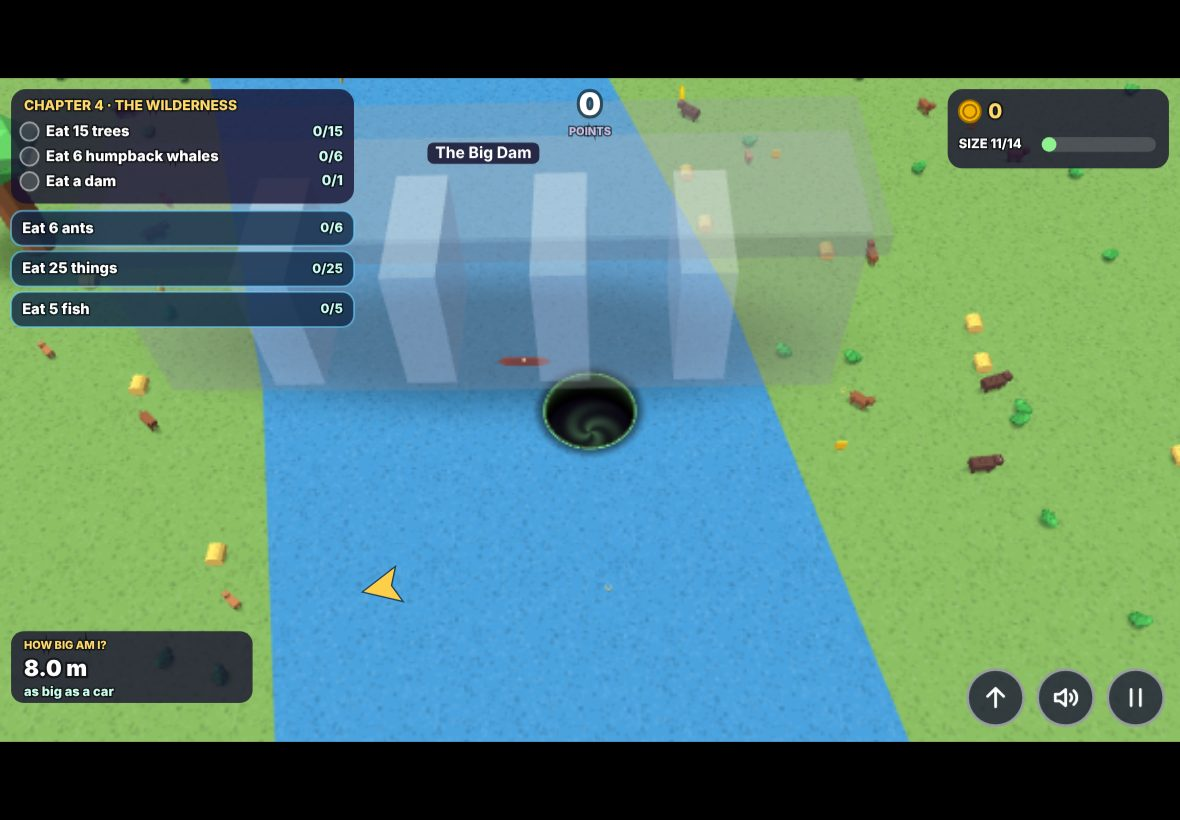
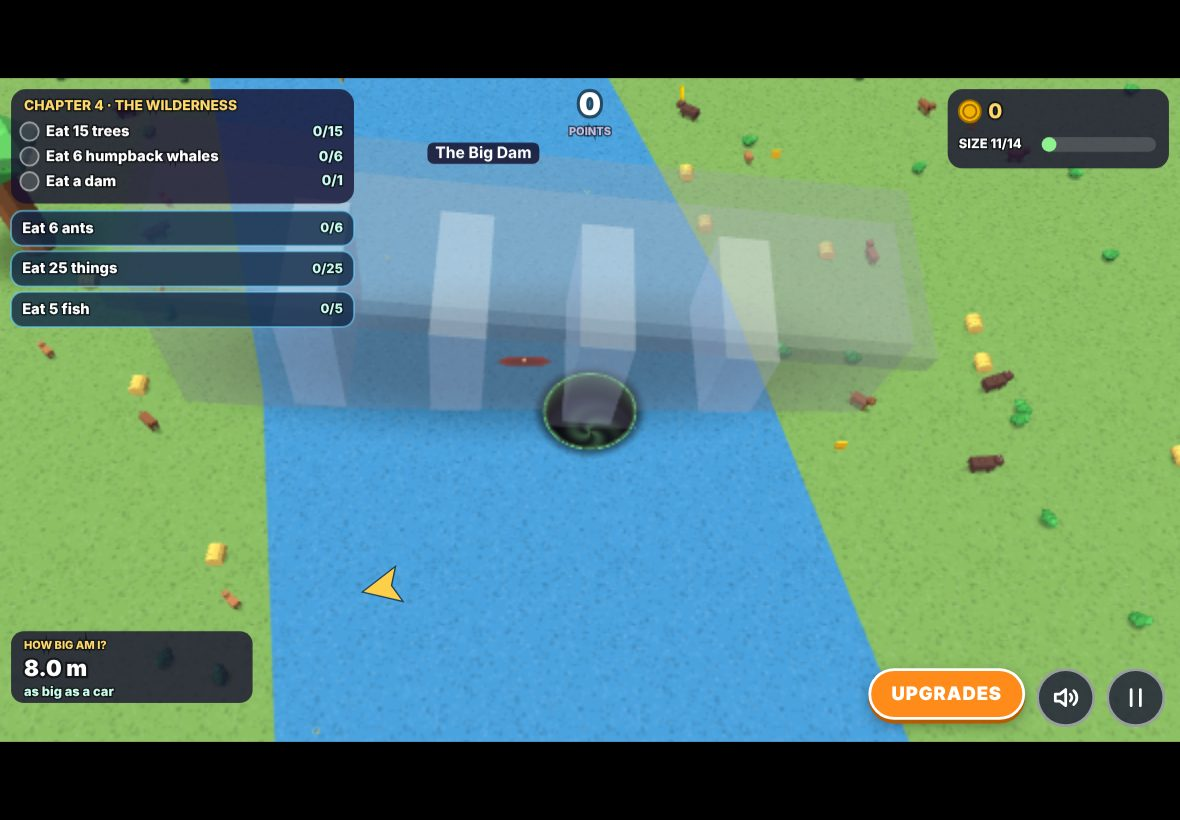
v4.1 docs: decisions, README test list, refreshed screenshots (+42-hud-upgrades-button)
Claude-Session: https://claude.ai/code/session_01FDCb4RpAdkwBTgVKPEwDwU

Changed region(s): [[0.1831, 0.122, 0.7932, 0.5488], [0.7322, 0.7927, 0.8847, 0.9146], [0.061, 0.2439, 0.122, 0.3049]]

diff --git a/docs/DECISIONS.md b/docs/DECISIONS.md
@@ -396,3 +396,17 @@ The v4 addendum in `docs/SPEC.md` is the authority. These are the calls the spec
   + local sums + identical tiles, v3 save migration.
 - `tests/balance-bot.js`: now reports time to target size per chapter.
 - `tests/screens.js`: 32 screenshots (menus, 16 chapter scenes, the Ch5 finale sky, each mode).
+
+# v4.1 fixes (owner rulings + audio addendum)
+
+## Music on iPhone
+- **Why it was silent:** music was a bare `new Audio()` element whose `play()` was called by `syncMusic()`, and `syncMusic()` runs from the frame loop, never inside a tap. iOS Safari refuses `play()` outside a user gesture; the rejection handler then set the current track to `null`, so the game never tried again. The SFX were audible because they were synthesised on the WebAudio context, which *is* resumed inside the tap. (The sound-effect files went through `new Audio()` too, so on iPhone they quietly fell back to the synth.)
+- **Fix:** one WebAudio path for everything. `audioInit()` (first tap) creates and resumes the context, then starts decoding. Each track is `fetch` + `decodeAudioData`, then looped as an `AudioBufferSourceNode` → music gain (0.55, or 0 when MUSIC is off) → analyser → speakers. Chapter/menu changes swap the source as before. Only the current track and `menu.mp3` stay decoded, to keep memory down. SFX files decode into buffers on the same context. File names and `audio/manifest.js` are unchanged. The media-element path is deleted.
+- **Hook:** `HH.debugAudio()` returns `{ track, playing, ctxState, gainValue, level, time, sfx, sfxListed, bad }`. `level` is the analyser's peak, so "playing" means samples are actually flowing, not just that a node exists.
+- **Test:** `tests/audio.js` launches Chromium with no autoplay flags (the browser blocks sound until a gesture), clicks STORY for real, and then checks that the right track is playing with the context `running` for the menu and every chapter. It also checks the MUSIC toggle and that every SFX file decodes.
+
+## Voice removed
+`speak()`, every `speechSynthesis` call and the Settings Voice row are deleted. Old saves lose `settings.voice` on load. The sequence-hunt next-tile glow and the visual toasts stay. `tests/audio.js` runs scripted Story, I Spy (Ch2, Ch4) and Educational (Ch1, Ch5, three sets each, sums included) and asserts zero `speechSynthesis` use: no `speak`, no `SpeechSynthesisUtterance`, not even a read of `window.speechSynthesis`.
+
+## HUD UPGRADES button
+The round up-arrow became an orange (#ff8c1a) pill that reads UPGRADES. Its behaviour is the same: pause, open Upgrades, and BACK resumes the exact run (the behaviour test checks the colour, the label, and that position and size are kept). Screenshot: `docs/screenshots/42-hud-upgrades-button.jpg`.

diff --git a/README.md b/README.md
@@ -5,5 +5,6 @@ Family-only, not for sale. A LANDSCAPE browser game: drag a hole around huge pla
 - **One public repo** — build and play here. Live: https://zerononeex.github.io/hungry-hole/ (`index.html` + the vendored `three.min.js` at the repo root; merging to `main` publishes).
 - **The journey:** 7 chapters — The House, Backyard & Neighbourhood, The City, The Wilderness, World Tour, Fictional Space, The Humbling — from one Lego brick to becoming a black hole.
 - **Spec:** `docs/SPEC.md` (v2, owner restructure applied). Builders: branch, build, Kakashi verifies BEFORE merge.
-- **v3 (3D):** Three.js r147 vendored as `three.min.js` (no CDN, works offline). Builder decisions in `docs/DECISIONS.md`. Tests: `python3 -m http.server 8765` at the root, then `node tests/{data,behaviour,reachability,ui-flow,balance-bot,screens,perf}.js`.
+- **v3 (3D):** Three.js r147 vendored as `three.min.js` (no CDN, works offline). Builder decisions in `docs/DECISIONS.md`. Tests: `python3 -m http.server 8765` at the root, then `node tests/{data,behaviour,audio,reachability,ui-flow,balance-bot,screens,perf}.js`.
 - **v4 (owner feedback batch):** true-scale Ch1–4 (metre table), Ch3 baked from OpenStreetMap data (`tools/bake-ch3.py` → `data/ch3-osm.js`, © OpenStreetMap contributors, ODbL), STORY / I SPY / EDUCATIONAL modes, audio slots in `audio/` (prompts in `docs/AUDIO_PROMPTS.md`). Decisions: `docs/DECISIONS.md` (v4 section).
+- **v4.1:** music plays through WebAudio (fixes silent music on iPhone; `HH.debugAudio()` reports what is playing), text-to-speech removed game-wide, and an orange UPGRADES button in the HUD. Notes: `docs/DECISIONS.md` (v4.1 section).
